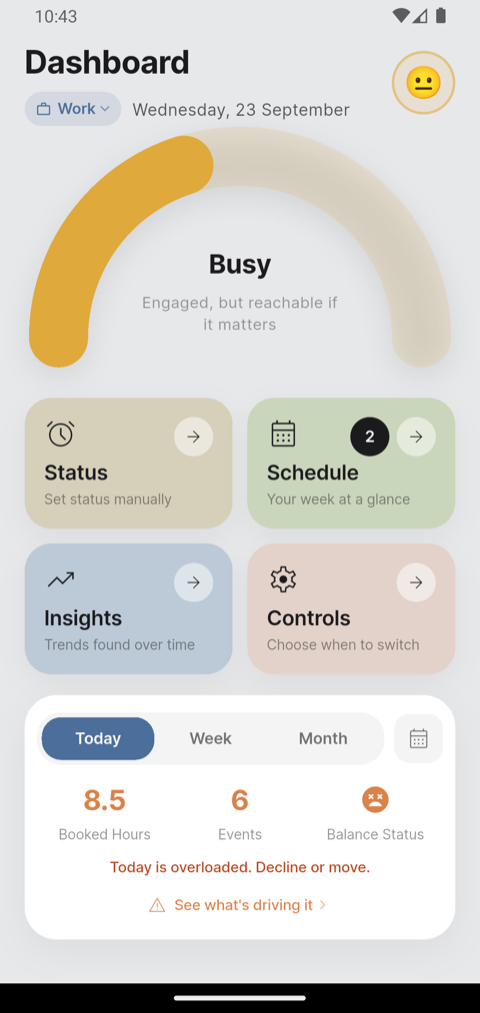
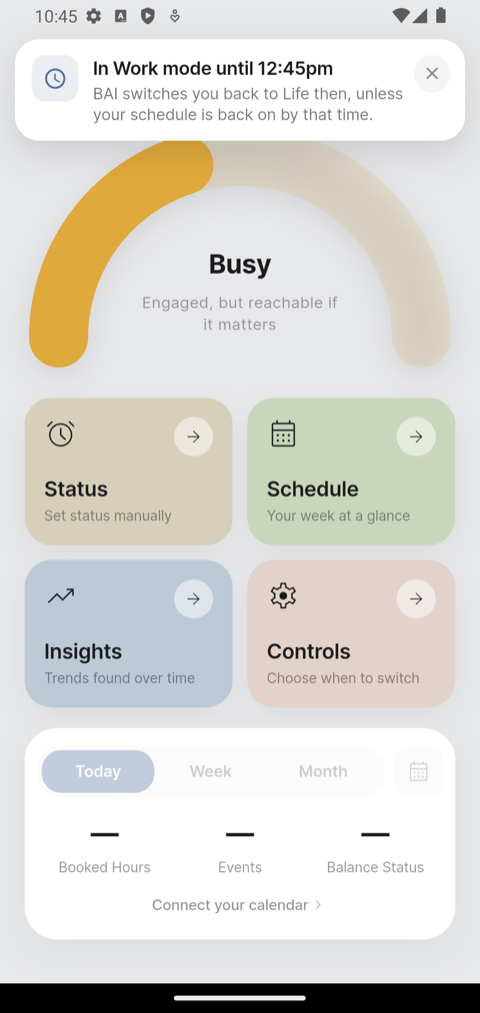
tut_update

diff --git a/tutorial/index.html b/tutorial/index.html
@@ -158,7 +158,8 @@
       <li><strong>Overloaded days in Insights</strong> — whether you kept Stretched on
           full days, and whether they felt heavier (<a href="#insights">Insights</a>).</li>
       <li><strong>Remind me to prepare</strong> — pick an event and get a reminder one to
-          five work days before it (<a href="#schedule">Schedule</a>).</li>
+          five work days before it, or before every one of a weekly series
+          (<a href="#schedule">Schedule</a>).</li>
       <li><strong>Mood reminders on the lock screen</strong> — after five work days
           without a check-in (two with the calendar off) (<a href="#mood">Mood</a>).</li>
     </ul>
@@ -201,7 +202,7 @@
   <p class="eyebrow">Read this one first</p>
   <h2>What BAI is actually for, day to day</h2>
   <p>
-    Everything after this is setup, done once. These four are the ones worth
+    Everything after this is setup, done once. These five are the ones worth
     remembering — they are what using BAI looks like most days, once it is running.
   </p>
 
@@ -276,6 +277,33 @@
     <figure>
       <img src="img/schedule-dont-count.png" alt="The sheet that opens when you tap an event, offering Don't count this event">
       <figcaption>Set an event aside — a negotiation with the day itself</figcaption>
+    </figure>
+  </div>
+
+  <div class="step">
+    <div class="step-body">
+      <h3><span class="num">5</span>Get a reminder to prepare <span class="new">New</span></h3>
+      <p>
+        For something you need to get ready for, tap it on <strong>Schedule</strong> and
+        choose <strong>Remind me to prepare</strong>: one to five work days before it.
+        For something that repeats, like a weekly lecture, choose
+        <strong>Remind me before every one</strong> and pick one.
+      </p>
+      <p>
+        When it is due, BAI tells you: <em>Coming up Thursday 14:00: 'Board
+        presentation' — don't forget to prepare.</em> On the lock screen when you are
+        away, in the app when it is open. Tap <strong>Open</strong> to see that day.
+      </p>
+      <p class="pillar-when">
+        Set it the moment you agree to something, so the preparation gets a place in
+        your week too. <a href="#schedule">More on reminders to prepare</a>.
+      </p>
+    </div>
+    <figure>
+      <img src="img/prep-series.png" alt="The Remind me to prepare sheet for a weekly lecture, with 1 work day before ticked" onerror="shotMissing(this)">
+      <figcaption>Before every lecture · pick one</figcaption>
+      <img src="img/prep-banner.png" alt="The dashboard with the banner Coming up Thursday 2:00pm, 'Board presentation' — don't forget to prepare, and an Open button" onerror="shotMissing(this)" style="margin-top:18px">
+      <figcaption>When it is due, with BAI open</figcaption>
     </figure>
   </div>
 </section>
@@ -380,7 +408,7 @@
       </p>
     </div>
     <figure>
-      <img src="img/work-session-confirmed.png" alt="An in-app banner reading In Work mode until 12:43pm, with BAI switches you back to Life then" onerror="shotMissing(this)">
+      <img src="img/work-session-confirmed.png" alt="An in-app banner reading In Work mode until 12:45pm — BAI switches you back to Life then, unless your schedule is back on by that time" onerror="shotMissing(this)">
       <figcaption>Confirmed, with the time it ends</figcaption>
     </figure>
   </div>
@@ -763,7 +791,13 @@
         <li>Work days are yours, from Controls: one work day before a Monday event is
             the Friday.</li>
         <li>Up to <strong>five reminders a week</strong>, for events up to two months
-            ahead. One-off events only, not ones that repeat.</li>
+            ahead.</li>
+        <li>For something that repeats, like a weekly lecture, choose
+            <strong>Remind me before every one</strong> and pick one of the five. It
+            follows the series until it ends; a cancelled one gets no reminder.
+            This is for events that repeat once a week or less. One-off reminders
+            come first: in a week that already has five, the series one is
+            skipped, and the sheet tells you how many.</li>
         <li>The card shows <em>🔔 Prepare (2)</em>. Tap the event again to change or
             remove them. If the event moves, the reminders move with it; if it is
             deleted, they go.</li>
